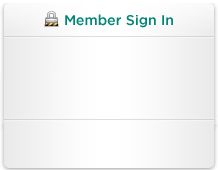
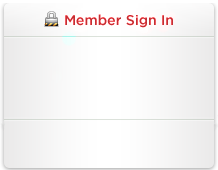
update css

diff --git a/Elibrary/web/css/uit.css b/Elibrary/web/css/uit.css
@@ -10,7 +10,7 @@
 }
 .divemainbody {
     width: 1350px;
-    height: 700px;
+    height: 500px;
     margin-top: 5px;
 }
 .wrapper {
@@ -988,7 +988,7 @@ image{
     background: url("../image/button_signinen.png") no-repeat scroll 0 0 transparent;
 }
 #login #login_buttonvn {
-    background: url("../image/button_signinvn.gif") no-repeat scroll 0 0 transparent;
+    background: url("../image/button_signinvn.png") no-repeat scroll 0 0 transparent;
 }
 .line {
     background: url("../image/line-1.png") repeat-x scroll 0 0 transparent;
@@ -1027,7 +1027,4 @@ image{
     padding: 3px 0 10px;
     width: 520px;
     margin-top: 1px;
-}
-.onlinecounter{
-    
 }
